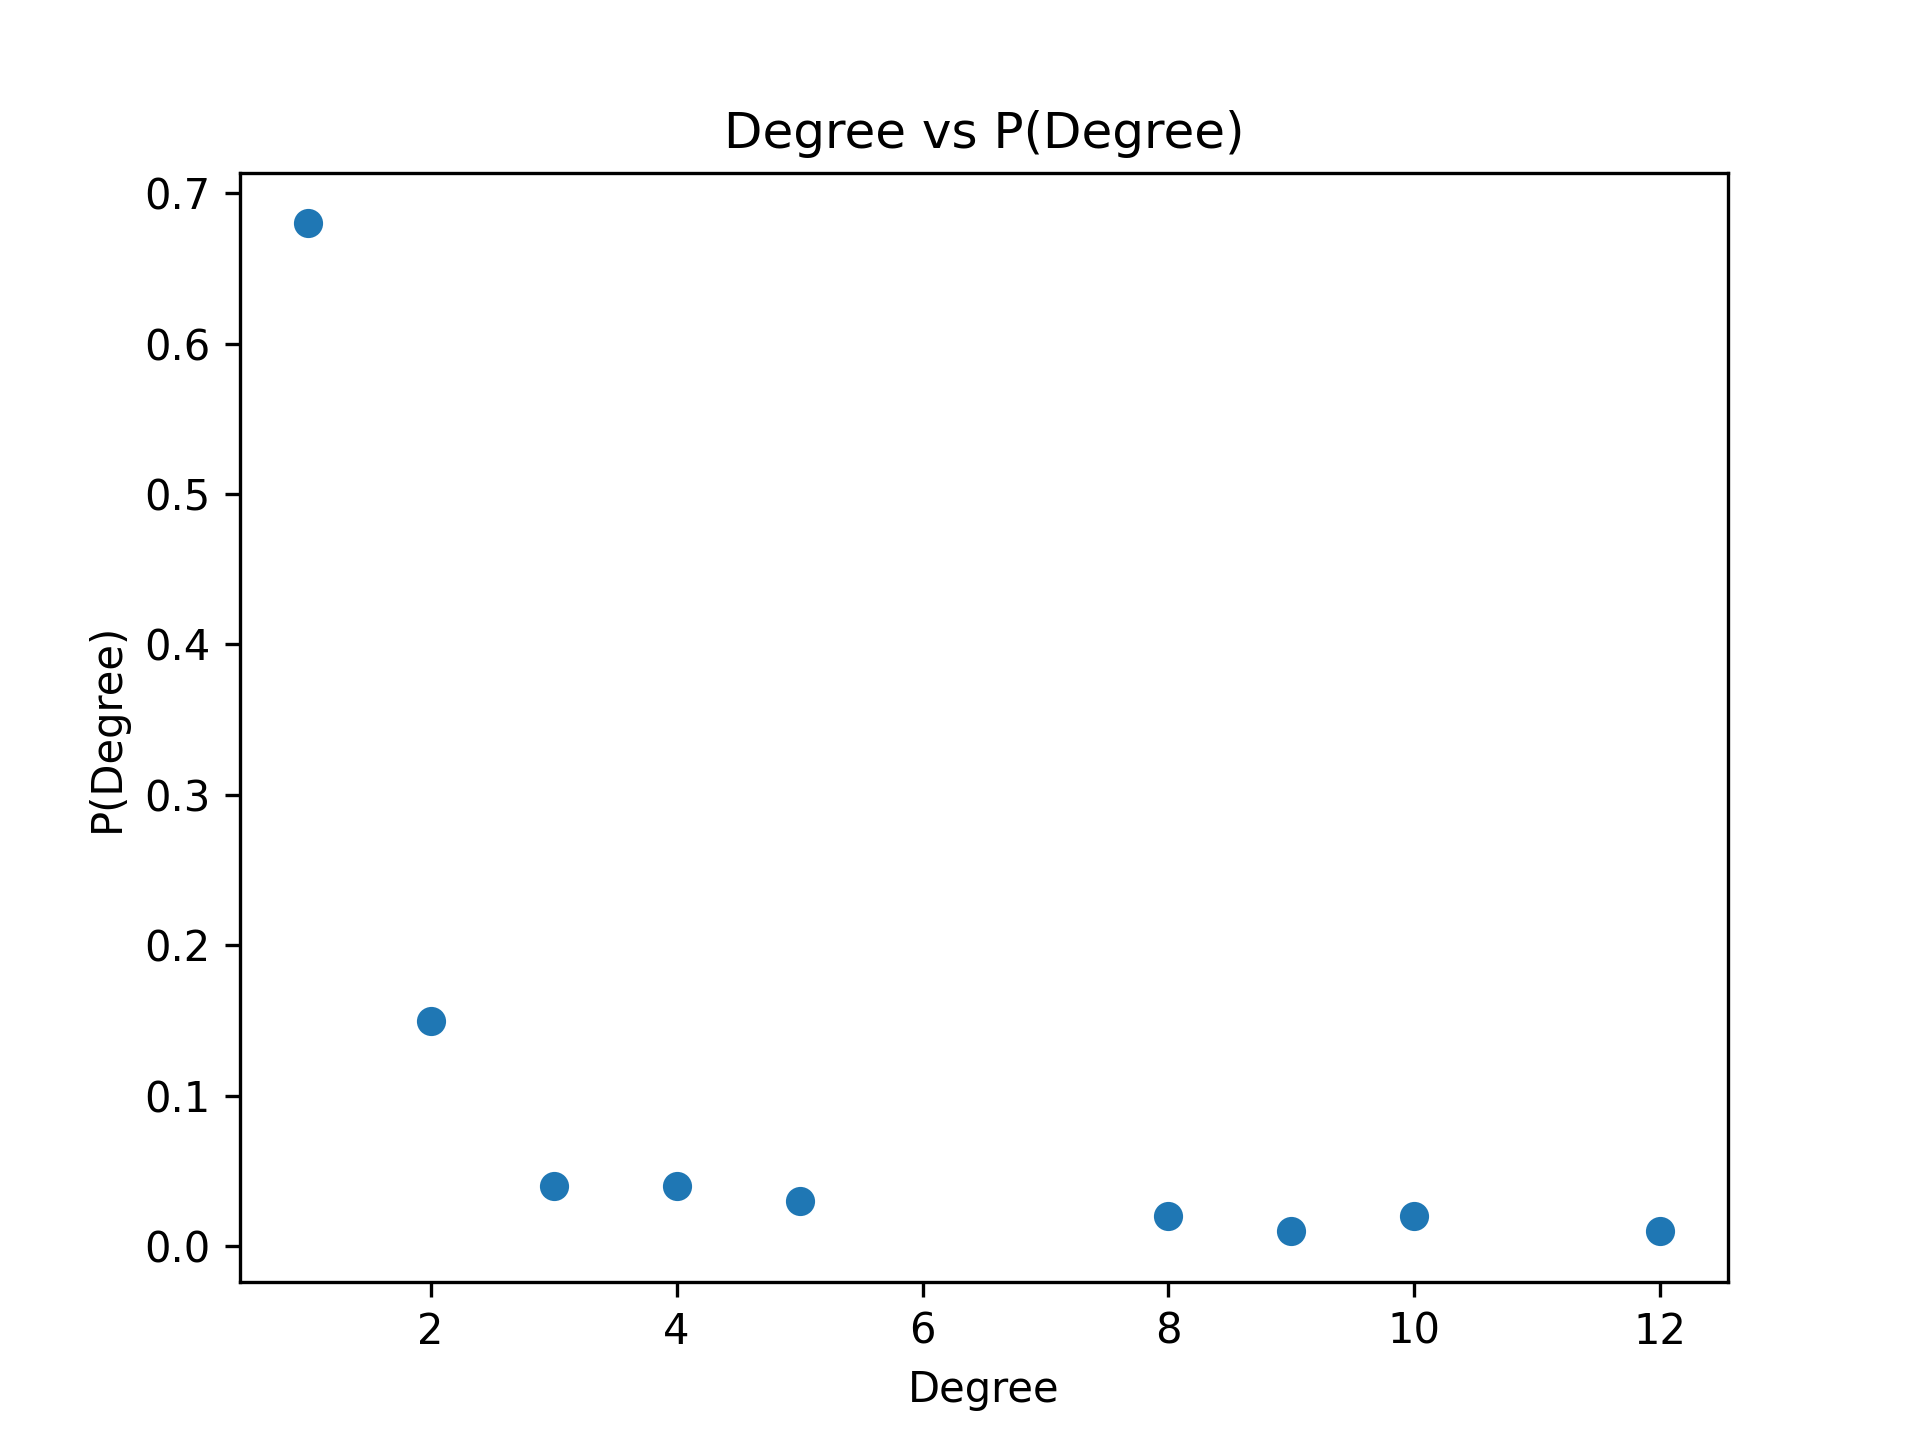
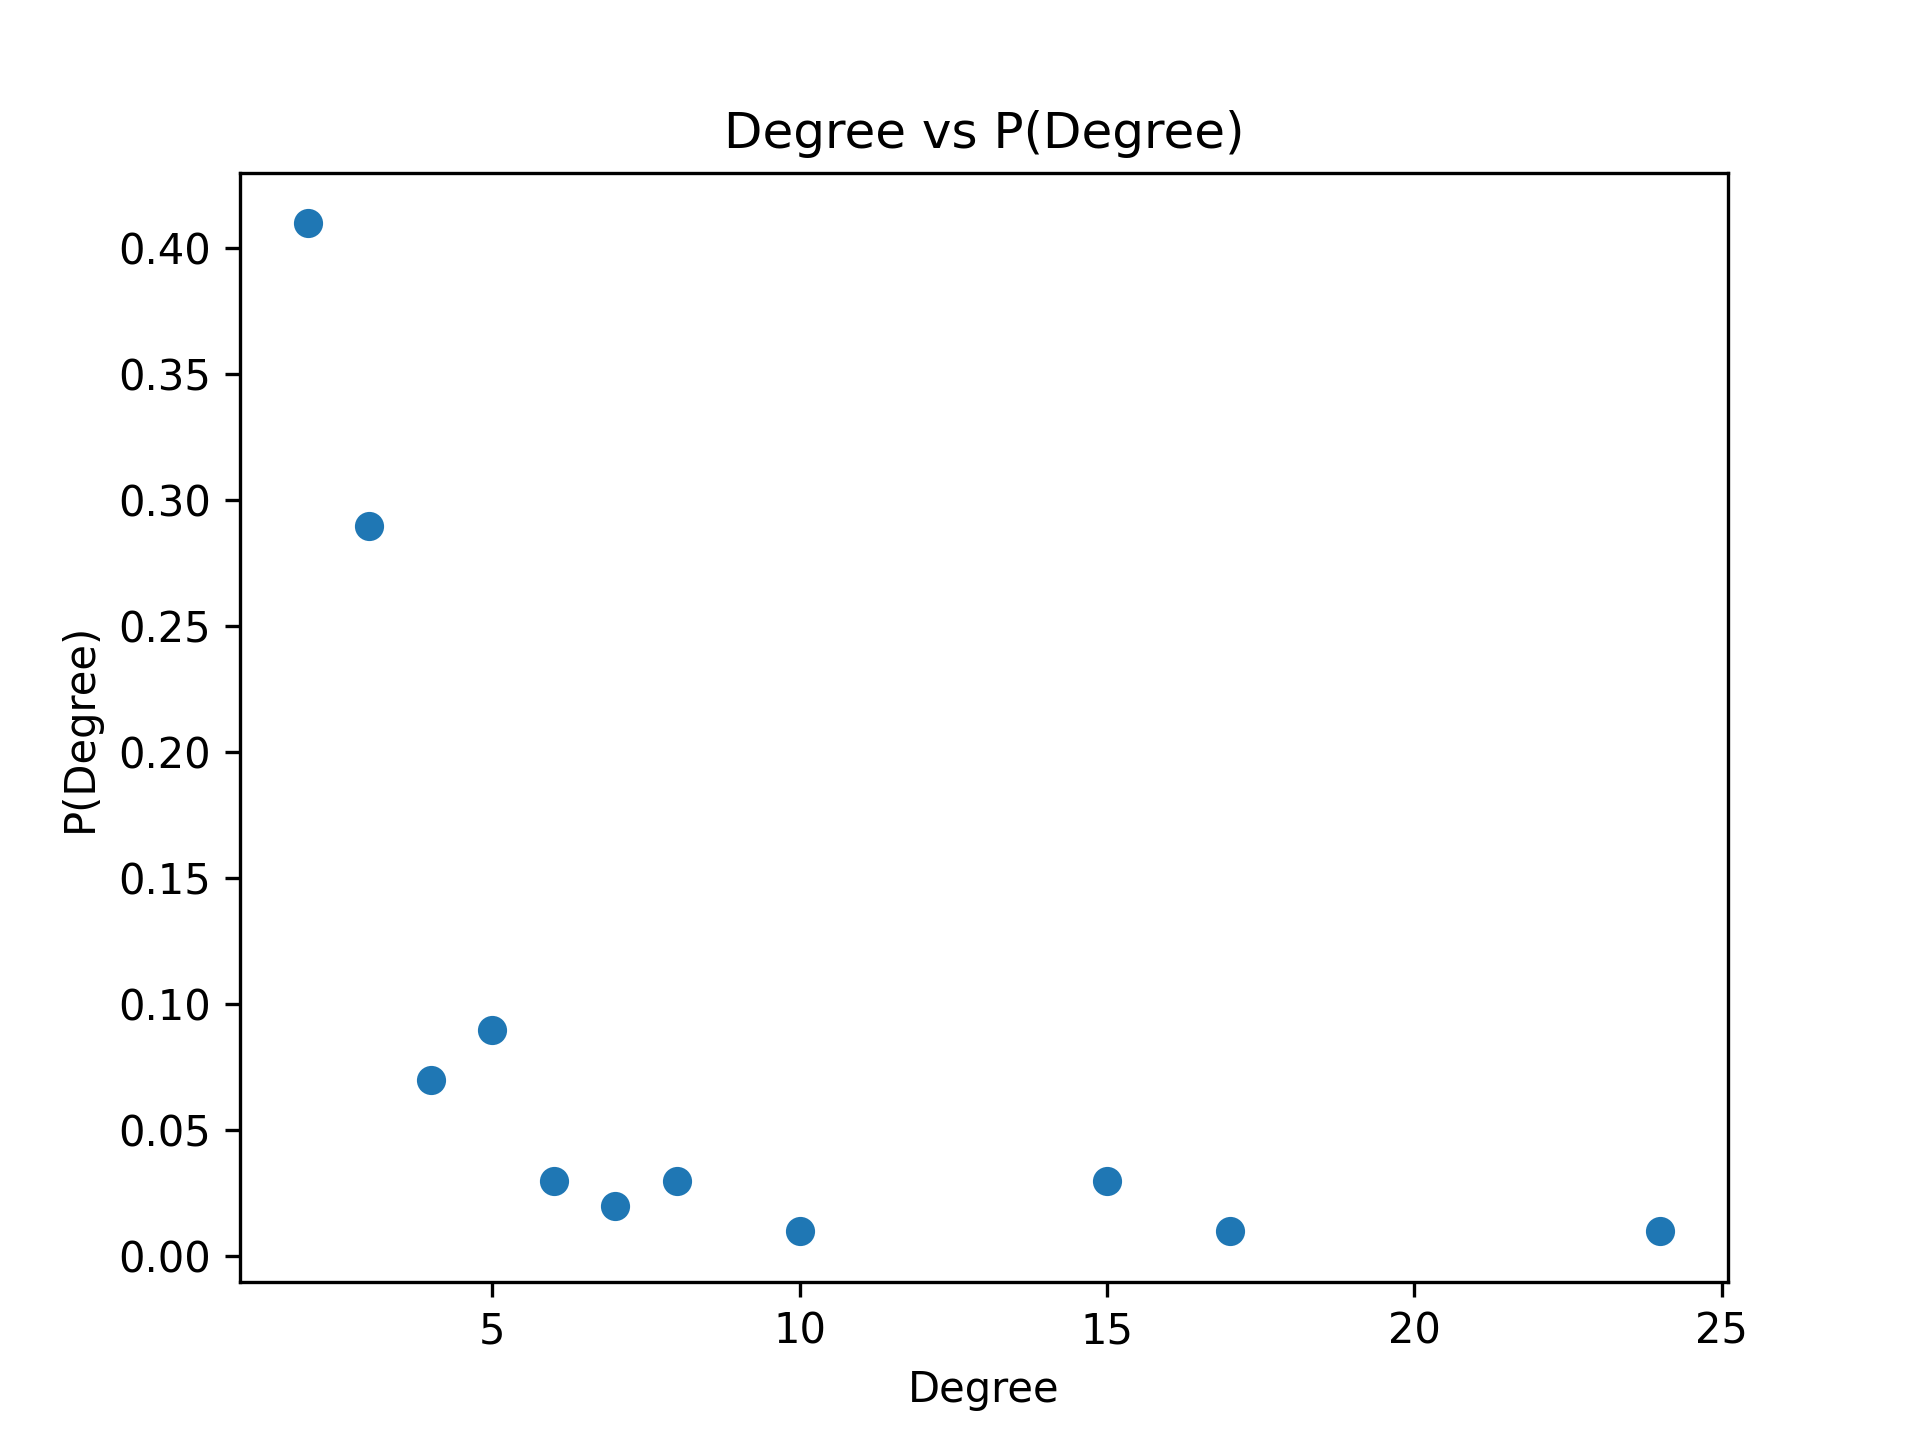
enhanced the algorithm

diff --git a/scripts/assignment_2.py b/scripts/assignment_2.py
@@ -47,17 +47,15 @@ def CreatePowerLawNetwork(n, m):
     
     # Simulate nodes coming in one by one with mentioned property
     for i in range(m, n):
-        # Create a list of existing node indices in which node index is repeated as many times as its degree
         if m==1 and i==1:
-            choice_list = [0]
+            chosen_indices = [0]
         else:
-            choice_list = []
-            for j in range(i-1):
-                choice_list += [j] * degree_dict[j]
-        
-        # Randomly choose first m elements from choice list
-        random.shuffle(choice_list)
-        chosen_indices = choice_list[:m]
+            node_indices = list(degree_dict.keys())
+            degrees = np.array([degree_dict[j] for j in node_indices])
+            probabilities = degrees / degrees.sum()
+            chosen_indices = np.random.choice(
+                node_indices, size=m, replace=False, p=probabilities
+            )
 
         # Connect the new node to the chosen nodes
         for j in chosen_indices:
@@ -66,13 +64,15 @@ def CreatePowerLawNetwork(n, m):
             degree_dict[j] += 1
     
     # Save graph of index vs degree
+    node_indices = sorted(list(degree_dict.keys()))
+    degrees = np.array([degree_dict[j] for j in node_indices])
     fig = plt.figure()
-    plt.scatter(degree_dict.keys(), degree_dict.values())
+    plt.scatter(node_indices, degrees)
     plt.title("Index vs Degree")
     plt.xlabel("Index")
     plt.ylabel("Degree")
     plt.savefig("./results/node_index_vs_degree.png", dpi=300, format='png') 
-    plt.close(fig)
+    # plt.close(fig)
     
     # Save graph of degree vs P(degree)
     degree_freq = {}
@@ -82,7 +82,7 @@ def CreatePowerLawNetwork(n, m):
             degree_freq[degree] = 1
         else:
             degree_freq[degree] += 1
-
+    
     degrees = np.array(list(degree_freq.keys()))
     degree_freq = np.array(list(degree_freq.values()))
     degree_prob = degree_freq / sum(degree_freq)
@@ -93,7 +93,30 @@ def CreatePowerLawNetwork(n, m):
     plt.xlabel("Degree")
     plt.ylabel("P(Degree)")
     plt.savefig("./results/degree_vs_proba.png", dpi=300, format='png') 
-    plt.close(fig)
+    # plt.close(fig)
+
+    # Save graph of log(degree) vs log(P(degree))
+    degree_freq = {}
+    for i in range(n):
+        degree = degree_dict[i]
+        if degree not in degree_freq:
+            degree_freq[degree] = 1
+        else:
+            degree_freq[degree] += 1
+    
+    degrees = np.array(sorted(list(degree_freq.keys())))
+    degree_freq = np.array([degree_freq[j] for j in degrees])
+    
+    log_degree_prob = np.log(degree_freq / sum(degree_freq))
+    log_degrees = np.log(degrees)
+
+    fig = plt.figure()
+    plt.scatter(log_degrees, log_degree_prob)
+    plt.title("Log Degree vs Log(P(Degree))")
+    plt.xlabel("Log Degree")
+    plt.ylabel("Log(P(Degree))")
+    plt.savefig("./results/log_degree_vs_log_probability.png", dpi=300, format='png') 
+    # plt.close(fig)
 
     return edges 
 
@@ -123,7 +146,7 @@ def CreateJointAccounts(deployed_contract, edges):
         (n1, n2) = edge
 
         try:
-            tx = deployed_contract.createAcc(n1, n2, balances[i], 20,{"from": admin})
+            tx = deployed_contract.createAcc(n1, n2, balances[i]/2, balances[i]/2, {"from": admin})
             tx.wait(1)
     
         except Exception as ex:
@@ -165,7 +188,7 @@ def TestTransactions(deployed_contract, n, t, every_k_transactions):
     plt.xlabel(f"transactions (in {every_k_transactions}s)")
     plt.ylabel("Success Ratio")
     plt.savefig("./results/success_ratios.png", dpi=300, format='png') 
-    plt.close(fig)
+    # plt.close(fig)
 
 def main():
     # Clear any cache of previous runs
